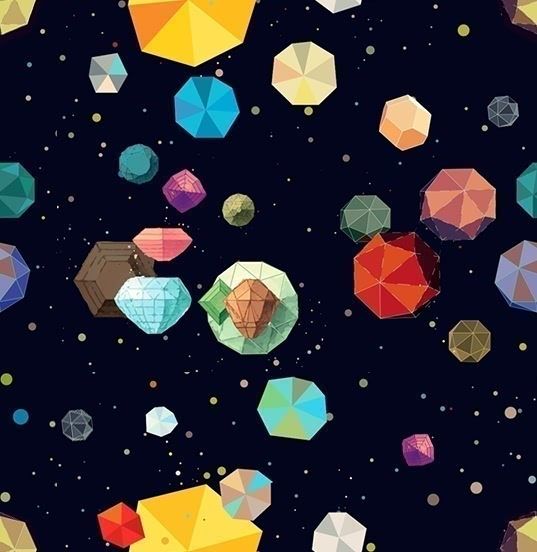
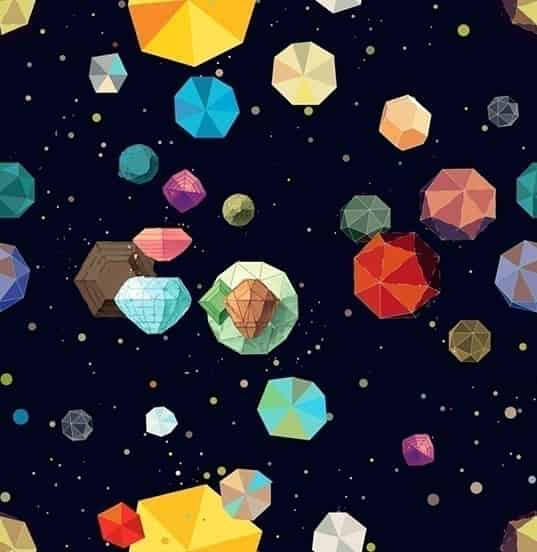
chore: 文章更新-0403

diff --git a/site-data.js b/site-data.js
@@ -20,7 +20,7 @@ module.exports = {
         keywords: `烈风裘的博客, X-Blog, Attila, Gatsby, 前端成长记录`, // 网站描述
         cover: '/background/kale-salad.jpg',
         tagCover: '/background/asteroids.jpg',
-        archiveCover: '/background/alchemy.gif',
+        archiveCover: '/background/alchemy.jpg',
         logo: '',
         language: 'zh-CN',
         navigation: true, // 是否开启右侧导航
